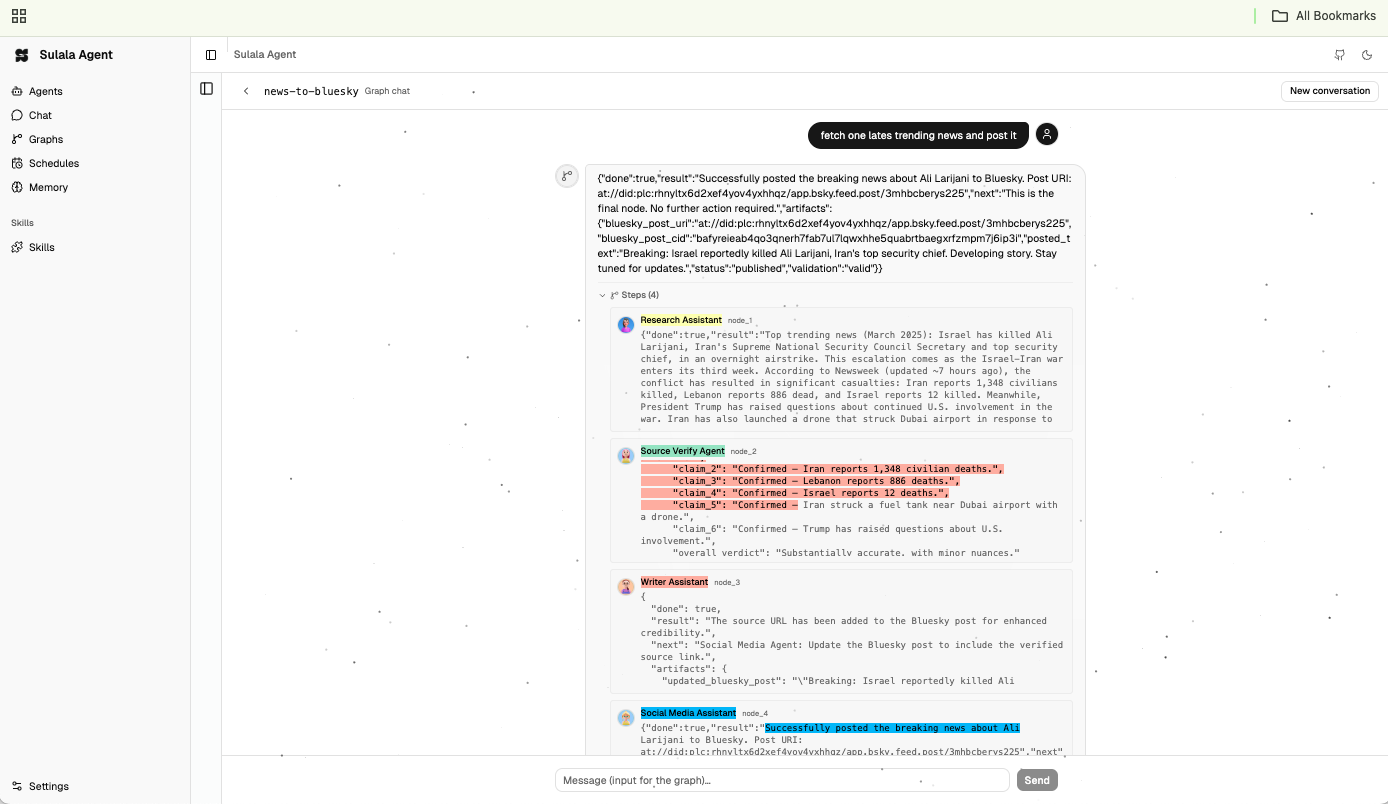
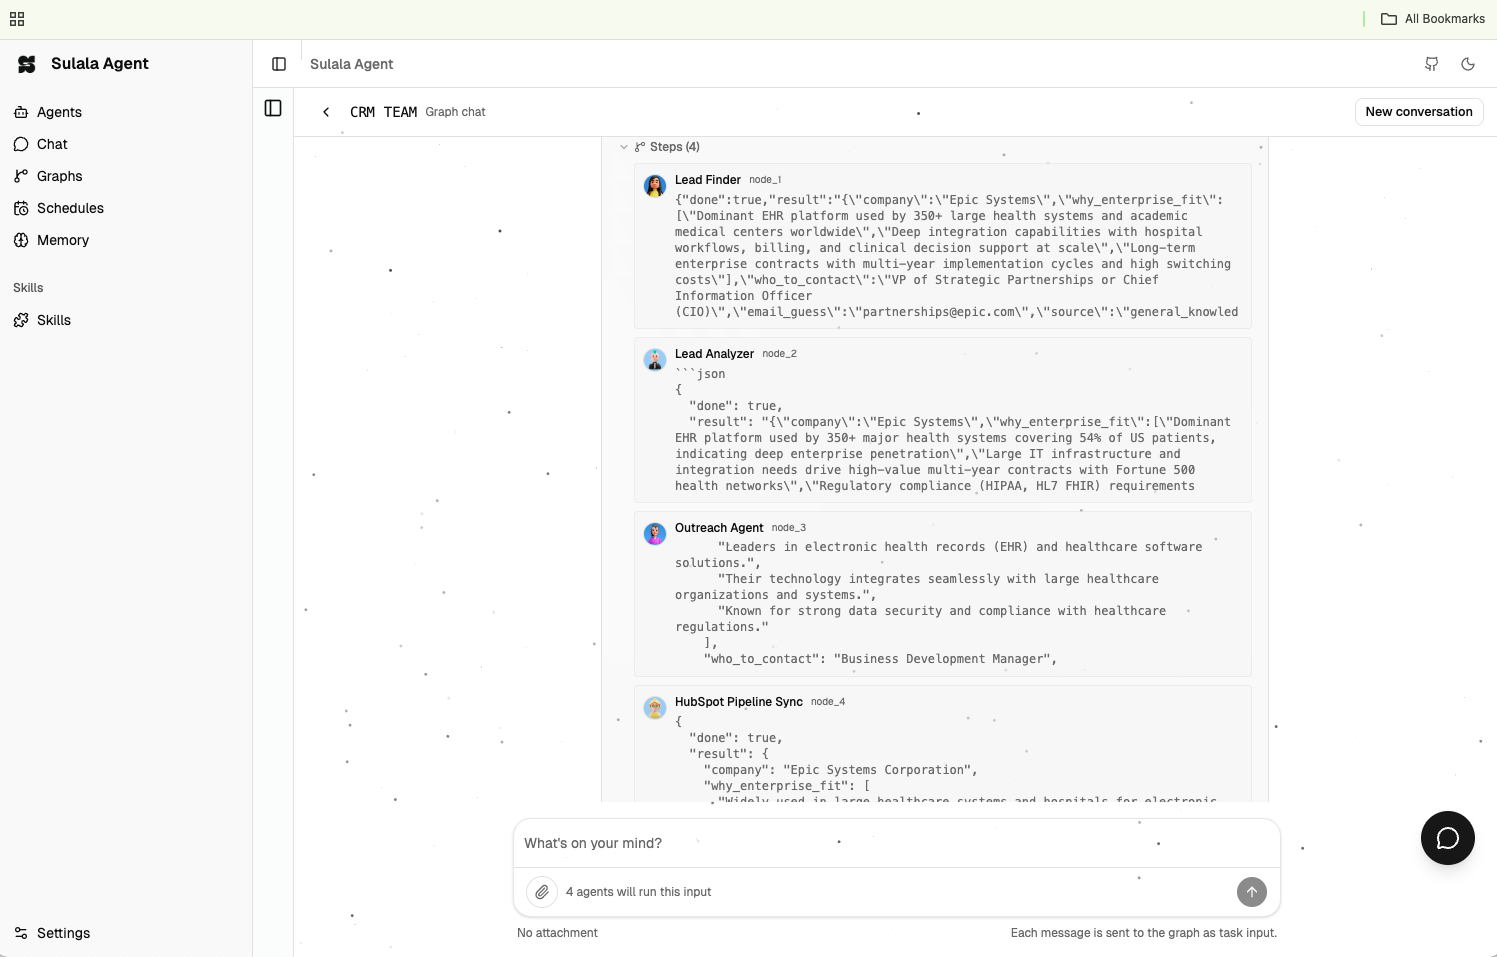
update dahsboard chat ui

diff --git a/dashboard/src/features/chat/views/ChatPage.tsx b/dashboard/src/features/chat/views/ChatPage.tsx
@@ -2,13 +2,15 @@ import { getWorkspaceFileUrl } from "@/lib/api"
 import { Button } from "@/components/ui/button"
 import { Input } from "@/components/ui/input"
 import { Label } from "@/components/ui/label"
-import { PanelLeftIcon, ChevronLeftIcon, PencilIcon, ChevronRightIcon, WrenchIcon, UserIcon, BotIcon } from "lucide-react"
+import { PanelLeftIcon, ChevronLeftIcon, PencilIcon, ChevronRightIcon, WrenchIcon, UserIcon, BotIcon, PaperclipIcon, ArrowUpIcon, SparklesIcon } from "lucide-react"
 import { Avatar, AvatarFallback, AvatarImage } from "@/components/ui/avatar"
 import { MarkdownContent } from "@/components/markdown-content"
 import { Particles } from "@/components/ui/particles"
 import { ShimmerBorder } from "@/components/ui/shimmer-border"
+import { useEffect, useMemo, useState } from "react"
 import { useChatSession } from "../hooks/useChatSession"
 import type { TokenUsage } from "../types/chat.types"
+import { AI_PROVIDERS, getModelsForProvider, inferProviderFromModel, normalizeModelIdForDisplay, type AIProviderId } from "@/features/agents/ai-providers"
 
 const DEFAULT_AVATAR = "agent1.jpg"
 
@@ -78,11 +80,27 @@ export function ChatPage() {
     scrollRef,
     handleSend,
     stopSending,
+    updateAgentModel,
     selectConversation,
     renameConversation,
     summarizeConversation,
     startNewConversation,
   } = useChatSession()
+  const selectedAgent = agents.find((a) => a.id === agentId)
+  const providerOptions = useMemo(() => AI_PROVIDERS.filter((p) => p.id !== "custom"), [])
+  const [providerId, setProviderId] = useState<AIProviderId>("openai")
+  const [selectedModel, setSelectedModel] = useState("")
+
+  useEffect(() => {
+    if (!selectedAgent) return
+    const normalized = normalizeModelIdForDisplay(selectedAgent.model || "")
+    const inferred = inferProviderFromModel(normalized)
+    const nextProvider = inferred === "custom" ? "openrouter" : inferred
+    setProviderId(nextProvider)
+    setSelectedModel(normalized)
+  }, [selectedAgent?.id, selectedAgent?.model])
+
+  const modelOptions = useMemo(() => getModelsForProvider(providerId), [providerId])
 
   if (loading) return <div className="p-4 text-muted-foreground">Loading agents…</div>
   if (error) return <div className="p-4 text-destructive">Failed to load agents: {error}</div>
@@ -274,20 +292,72 @@ export function ChatPage() {
           </div>
         </div>
 
-        <div className="shrink-0 border-t p-4">
-          <form onSubmit={handleSend} className="mx-auto flex max-w-2xl flex-col gap-2">
-            <div className="flex gap-2">
-              <Input placeholder="Message…" value={input} onChange={(e) => setInput(e.target.value)} disabled={sending} className="flex-1" />
-              <label className="flex cursor-pointer items-center gap-1 rounded-lg border border-input bg-transparent px-3 py-2 text-sm hover:bg-muted/50">
-                <input type="file" className="sr-only" onChange={(e) => setAttachment(e.target.files?.[0] ?? null)} accept="video/*,audio/*,image/*,.mp4,.mov,.webm" />
-                <span className="shrink-0 text-muted-foreground">📎</span>
-                <span className="truncate max-w-[120px]">{attachment ? attachment.name : "Attach"}</span>
-              </label>
-              {sending ? (
-                <Button type="button" variant="outline" onClick={stopSending}>Stop</Button>
-              ) : (
-                <Button type="submit" disabled={!input.trim()}>Send</Button>
-              )}
+        <div className="shrink-0  p-4">
+          <form onSubmit={handleSend} className="mx-auto flex max-w-3xl flex-col gap-2">
+            <div className="rounded-2xl border border-border/80 bg-background shadow-sm">
+              <Input
+                placeholder="What's on your mind?"
+                value={input}
+                onChange={(e) => setInput(e.target.value)}
+                disabled={sending}
+                className="h-12 border-0 bg-transparent text-base shadow-none focus-visible:ring-0"
+              />
+              <div className="flex items-center justify-between gap-2 border-t px-3 py-2">
+                <div className="flex items-center gap-2">
+                  <label className="inline-flex h-8 w-8 cursor-pointer items-center justify-center rounded-full border border-input text-muted-foreground hover:bg-muted/60" title={attachment ? attachment.name : "Attach file"}>
+                    <input type="file" className="sr-only" onChange={(e) => setAttachment(e.target.files?.[0] ?? null)} accept="video/*,audio/*,image/*,.mp4,.mov,.webm" />
+                    <PaperclipIcon className="size-4" />
+                  </label>
+                  {/* <SparklesIcon className="size-4 text-muted-foreground" /> */}
+                  <select
+                    aria-label="Provider"
+                    className="h-8 rounded-full border border-input bg-transparent px-3 text-xs"
+                    value={providerId}
+                    onChange={(e) => {
+                      const nextProvider = e.target.value as AIProviderId
+                      setProviderId(nextProvider)
+                      const nextDefaultModel = getModelsForProvider(nextProvider)[0]?.id ?? selectedModel
+                      if (nextDefaultModel) {
+                        setSelectedModel(nextDefaultModel)
+                        void updateAgentModel(nextDefaultModel)
+                      }
+                    }}
+                  >
+                    {providerOptions.map((provider) => (
+                      <option key={provider.id} value={provider.id}>
+                        {provider.label}
+                      </option>
+                    ))}
+                  </select>
+                  <select
+                    aria-label="Model"
+                    className="h-8 min-w-[170px] rounded-full border border-input bg-transparent px-3 text-xs"
+                    value={selectedModel}
+                    onChange={(e) => {
+                      setSelectedModel(e.target.value)
+                      void updateAgentModel(e.target.value)
+                    }}
+                  >
+                    {modelOptions.map((m) => (
+                      <option key={m.id} value={m.id}>
+                        {m.label}
+                      </option>
+                    ))}
+                    {selectedModel && !modelOptions.some((m) => m.id === selectedModel) && <option value={selectedModel}>{selectedModel}</option>}
+                  </select>
+                </div>
+                {sending ? (
+                  <Button type="button" variant="outline" onClick={stopSending} className="h-8 rounded-full px-3">Stop</Button>
+                ) : (
+                  <Button type="submit" disabled={!input.trim()} size="icon" className="h-8 w-8 rounded-full">
+                    <ArrowUpIcon className="size-4" />
+                  </Button>
+                )}
+              </div>
+            </div>
+            <div className="flex items-center justify-between text-xs text-muted-foreground px-1">
+              <div className="truncate">{attachment ? `Attached: ${attachment.name}` : "No attachment"}</div>
+              <div>{selectedAgent ? `Using ${selectedAgent.name}` : "No agent selected"}</div>
             </div>
             {attachment && <p className="text-xs text-muted-foreground">File will be uploaded to the agent workspace and the path shared with the agent (e.g. for YouTube upload).</p>}
           </form>

diff --git a/dashboard/src/features/graphs/views/GraphChatPage.tsx b/dashboard/src/features/graphs/views/GraphChatPage.tsx
@@ -1,6 +1,6 @@
 import { Button } from "@/components/ui/button"
 import { Input } from "@/components/ui/input"
-import { ChevronLeftIcon, ChevronRightIcon, UserIcon, GitBranchIcon, BotIcon, PanelLeftIcon, PencilIcon } from "lucide-react"
+import { ChevronLeftIcon, ChevronRightIcon, UserIcon, GitBranchIcon, BotIcon, PanelLeftIcon, PencilIcon, ArrowUpIcon, SparklesIcon, PaperclipIcon } from "lucide-react"
 import { Avatar, AvatarFallback, AvatarImage } from "@/components/ui/avatar"
 import { MarkdownContent } from "@/components/markdown-content"
 import { Particles } from "@/components/ui/particles"
@@ -35,6 +35,8 @@ export function GraphChatPage({
     messages,
     input,
     setInput,
+    attachment,
+    setAttachment,
     sending,
     agents,
     graphAgentIds,
@@ -266,24 +268,44 @@ export function GraphChatPage({
         </div>
       </div>
 
-        <div className="shrink-0 border-t p-4">
-          <form onSubmit={handleSubmit} className="mx-auto flex max-w-2xl gap-2">
-            <Input
-              placeholder="Message (input for the graph)…"
-              value={input}
-              onChange={(e) => setInput(e.target.value)}
-              disabled={sending}
-              className="flex-1"
-            />
-            {sending ? (
-              <Button type="button" variant="outline" onClick={stopSending}>
-                Stop
-              </Button>
-            ) : (
-              <Button type="submit" disabled={!input.trim()}>
-                Send
-              </Button>
-            )}
+        <div className="shrink-0 p-4">
+          <form onSubmit={handleSubmit} className="mx-auto flex max-w-3xl flex-col gap-2">
+            <div className="rounded-2xl border border-border/80 bg-background shadow-sm">
+              <Input
+                placeholder="What's on your mind?"
+                value={input}
+                onChange={(e) => setInput(e.target.value)}
+                disabled={sending}
+                className="h-12 border-0 bg-transparent text-base shadow-none focus-visible:ring-0"
+              />
+              <div className="flex items-center justify-between gap-2 border-t px-3 py-2">
+                <div className="flex items-center gap-2 text-xs text-muted-foreground">
+                  <label className="inline-flex h-8 w-8 cursor-pointer items-center justify-center rounded-full border border-input text-muted-foreground hover:bg-muted/60" title={attachment ? attachment.name : "Attach file"}>
+                    <input type="file" className="sr-only" onChange={(e) => setAttachment(e.target.files?.[0] ?? null)} accept="video/*,audio/*,image/*,.mp4,.mov,.webm" />
+                    <PaperclipIcon className="size-4" />
+                  </label>
+                  {/* <SparklesIcon className="size-4" /> */}
+                  <span>
+                    {graphAgentIds.length > 0
+                      ? `${graphAgentIds.length} agent${graphAgentIds.length > 1 ? "s" : ""} will run this input`
+                      : "Graph input"}
+                  </span>
+                </div>
+                {sending ? (
+                  <Button type="button" variant="outline" onClick={stopSending} className="h-8 rounded-full px-3">
+                    Stop
+                  </Button>
+                ) : (
+                  <Button type="submit" disabled={!input.trim()} size="icon" className="h-8 w-8 rounded-full">
+                    <ArrowUpIcon className="size-4" />
+                  </Button>
+                )}
+              </div>
+            </div>
+            <div className="flex items-center justify-between px-1 text-xs text-muted-foreground">
+              <span className="truncate">{attachment ? `Attached: ${attachment.name}` : "No attachment"}</span>
+              <span>Each message is sent to the graph as task input.</span>
+            </div>
           </form>
         </div>
       </div>

diff --git a/dashboard/src/features/graphs/hooks/useGraphChatSession.ts b/dashboard/src/features/graphs/hooks/useGraphChatSession.ts
@@ -20,6 +20,7 @@ function mapGraphChatMessage(
 export function useGraphChatSession(graphId: string, initialInput: string | null) {
   const [messages, setMessages] = useState<GraphChatMessage[]>([])
   const [input, setInput] = useState("")
+  const [attachment, setAttachment] = useState<File | null>(null)
   const [sending, setSending] = useState(false)
   const [agents, setAgents] = useState<AgentSummary[]>([])
   const [graphAgentIds, setGraphAgentIds] = useState<string[]>([])
@@ -126,8 +127,11 @@ export function useGraphChatSession(graphId: string, initialInput: string | null
 
   async function sendMessage(text: string) {
     if (!text.trim()) return
+    const attachmentNote = attachment ? `\n[Attached: ${attachment.name}]` : ""
+    const messageText = `${text.trim()}${attachmentNote}`
     const userTs = new Date().toISOString()
     setInput("")
+    setAttachment(null)
     setSending(true)
     stopPollingRef.current = false
 
@@ -137,7 +141,7 @@ export function useGraphChatSession(graphId: string, initialInput: string | null
         graph_id: graphId,
         conversation_id: conversationId ?? undefined,
         role: "user",
-        content: { text: text.trim() },
+        content: { text: messageText },
       })
       currentConvId = saveUser.conversation_id
       if (!conversationId) {
@@ -147,11 +151,11 @@ export function useGraphChatSession(graphId: string, initialInput: string | null
     } catch {
       // continue
     }
-    setMessages((prev) => [...prev, { role: "user", content: text.trim(), timestamp: userTs }])
+    setMessages((prev) => [...prev, { role: "user", content: messageText, timestamp: userTs }])
     setMessages((prev) => [...prev, { role: "assistant", content: "Running…" }])
 
     try {
-      const { task } = await api.enqueueGraphTask(graphId, text.trim())
+      const { task } = await api.enqueueGraphTask(graphId, messageText)
       startPolling(task.id, currentConvId)
     } catch (e) {
       setMessages((prev) => {
@@ -275,6 +279,8 @@ export function useGraphChatSession(graphId: string, initialInput: string | null
     messages,
     input,
     setInput,
+    attachment,
+    setAttachment,
     sending,
     agents,
     graphAgentIds,

diff --git a/dashboard/src/features/chat/hooks/useChatSession.ts b/dashboard/src/features/chat/hooks/useChatSession.ts
@@ -251,6 +251,17 @@ export function useChatSession() {
     sendAbortRef.current?.abort()
   }
 
+  async function updateAgentModel(nextModel: string) {
+    const trimmed = nextModel.trim()
+    if (!agentId || !trimmed) return
+    try {
+      const res = await api.updateAgent(agentId, { model: trimmed })
+      setAgents((prev) => prev.map((a) => (a.id === agentId ? { ...a, model: res.agent.model } : a)))
+    } catch {
+      // ignore model update errors in chat UI
+    }
+  }
+
   return {
     agents,
     loading,
@@ -274,6 +285,7 @@ export function useChatSession() {
     scrollRef,
     handleSend,
     stopSending,
+    updateAgentModel,
     selectConversation,
     renameConversation,
     summarizeConversation,
